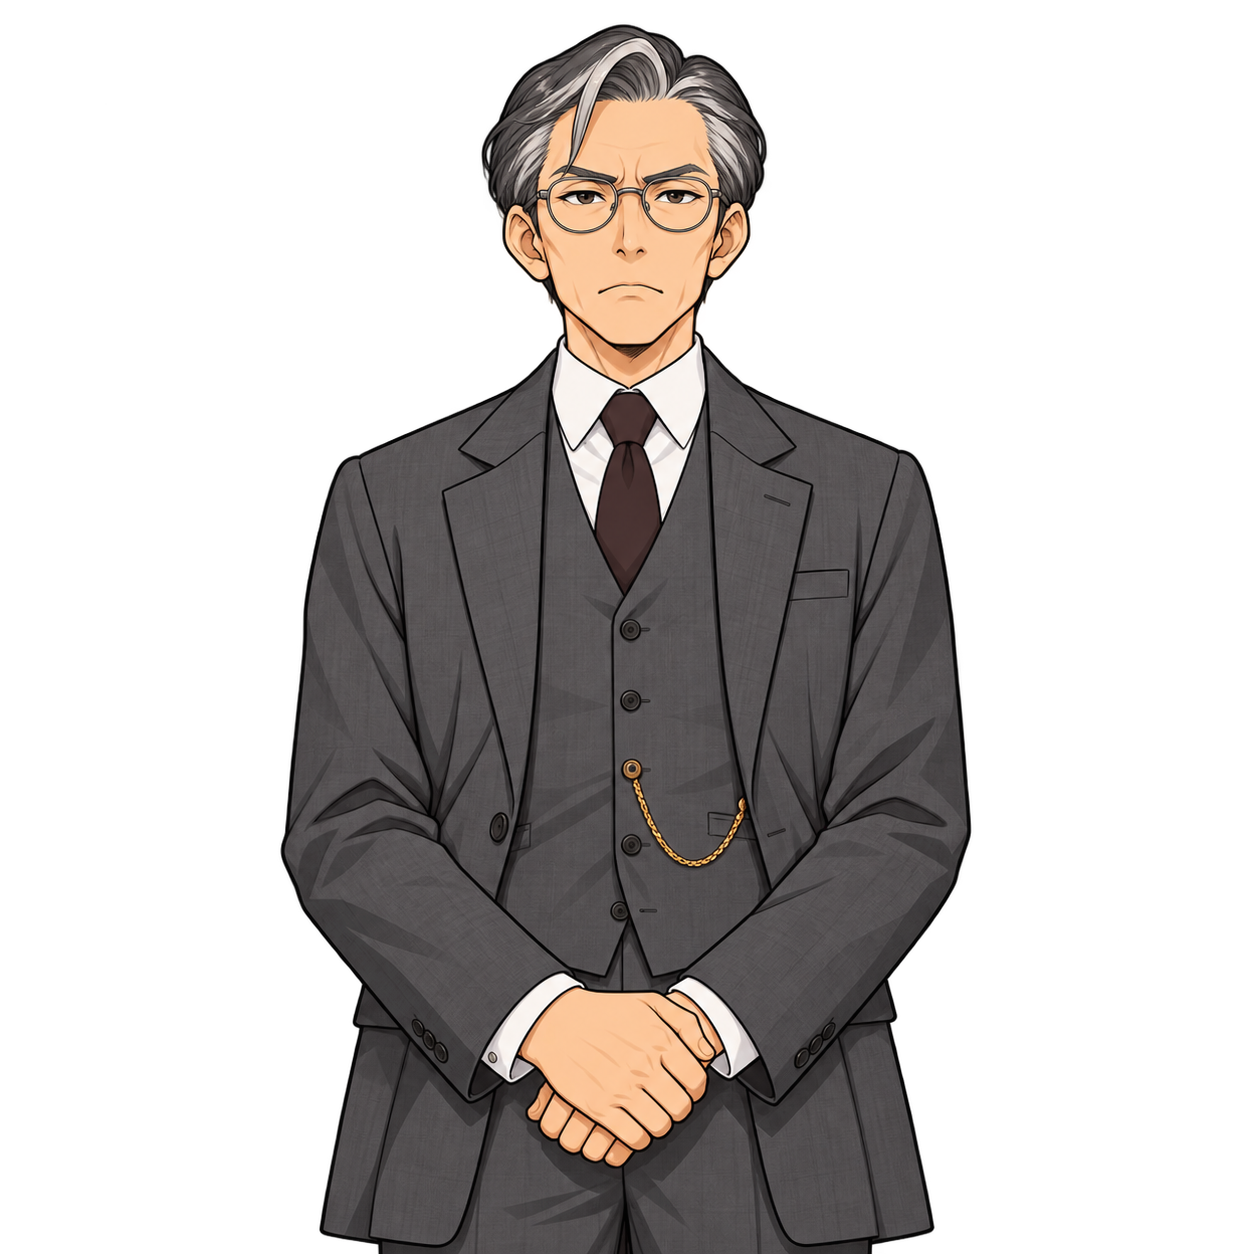
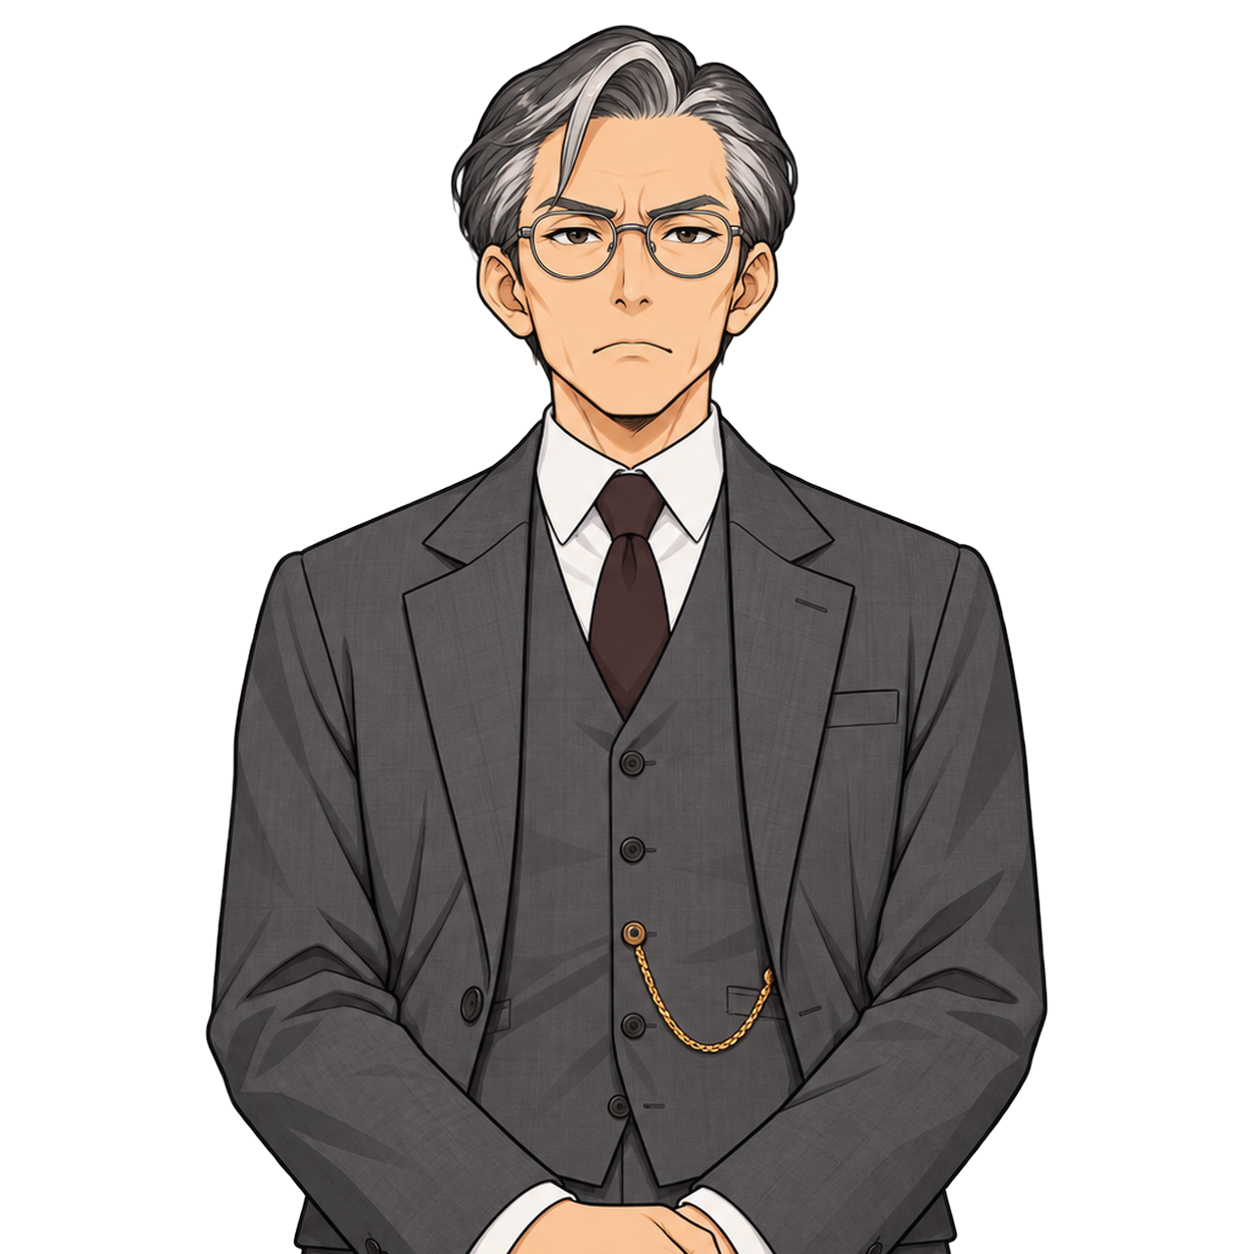
1화 인물 표정 그림 크기를 기본 그림에 맞추고, 모리 무표정 그림의 왼쪽 조각 제거
Claude-Session: https://claude.ai/code/session_01NHYzrX55wKaEEAPmcQpN8C

Changed region(s): [[0.1555, 0.0, 0.8397, 1.0]]

diff --git a/docs/스프라이트_목록.md b/docs/스프라이트_목록.md
@@ -537,5 +537,5 @@ ChatGPT에 한 번에 여러 장(따로 된 그림)을 요청해서 만든다.
 3. 고정 인물 나머지 표정 (완료)
 4. 법정 배경 8장과 책상 앞그림 4장 (완료)
 5. UI 42장 모두 완료
-6. 1화에 필요한 그림 (`ref_ep1_1`, `ref_ep1_2`, 1화 인물 상반신, 1화 배경과 증거)
+6. 1화에 필요한 그림: 인물 22장 완료 (표정끼리 크기 맞춤). 배경, 연출 컷, 증거 남음
 7. 2화부터 차례로
